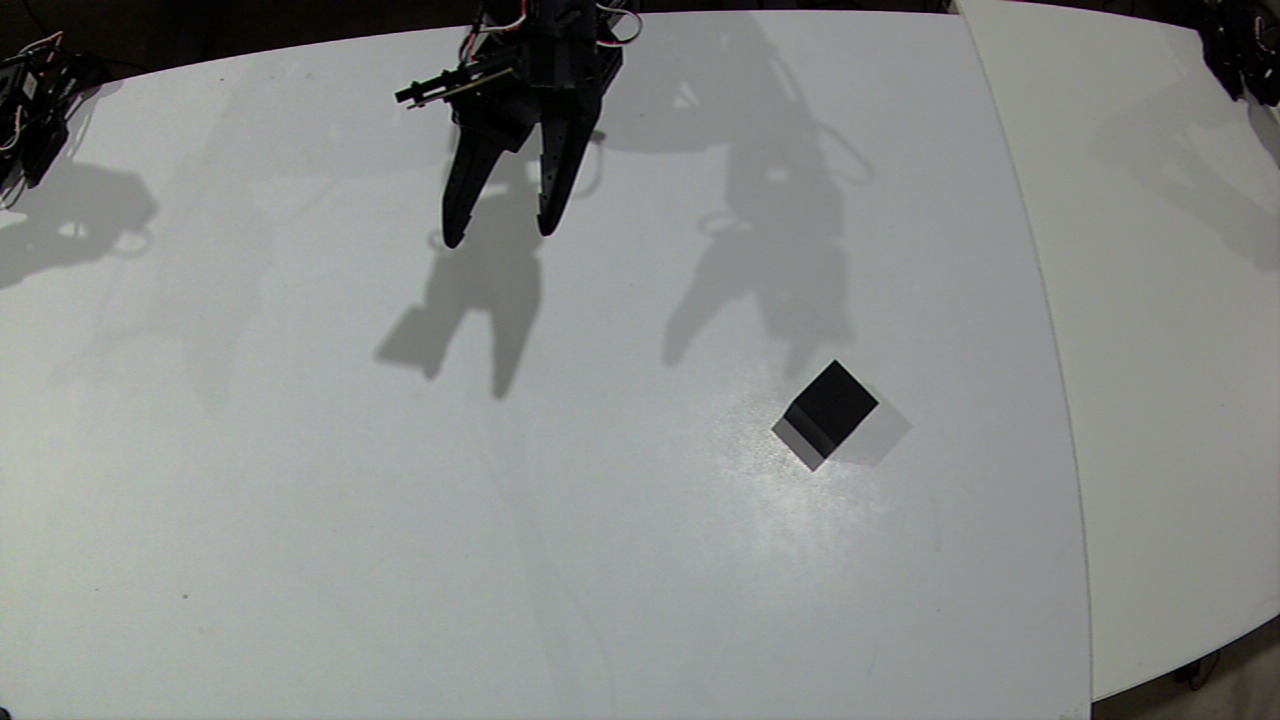
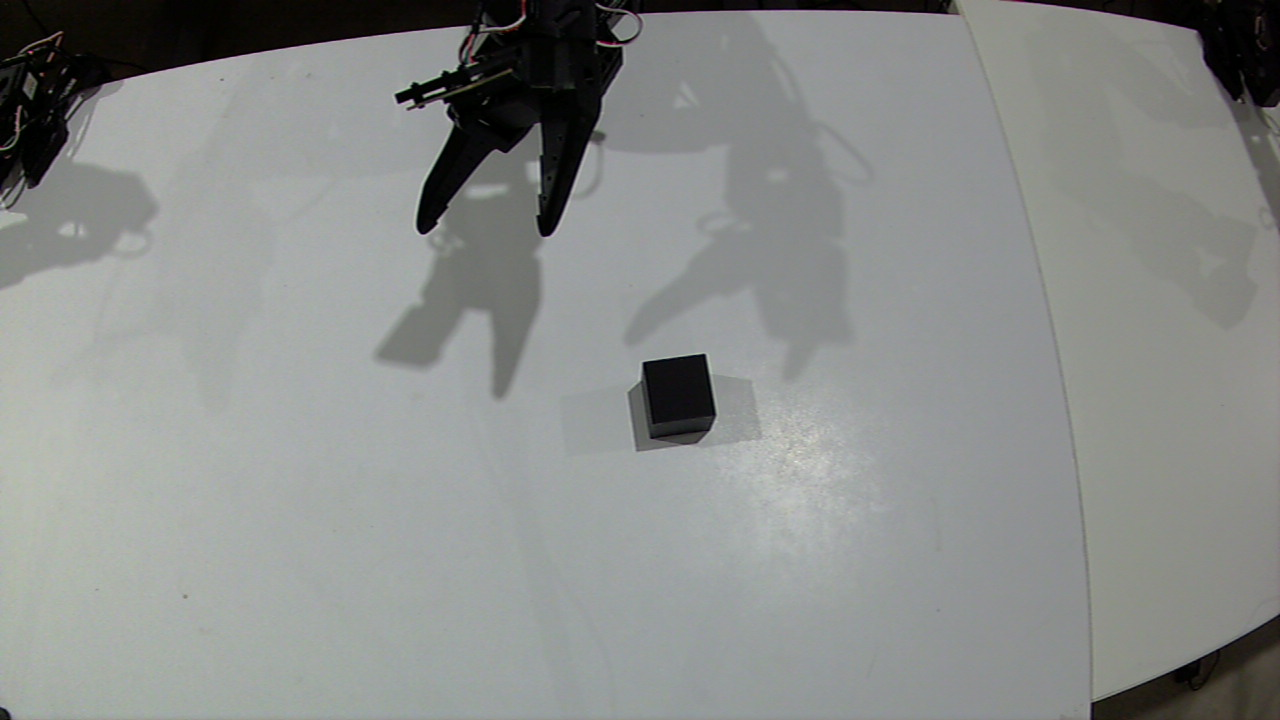
Update tools for arm-007__gpt-6-astra__grasp-cube
{"agent_id": "arm-007__gpt-6-astra__grasp-cube", "designation": "arm-007", "identity_version": 2, "model": "gpt-6-astra", "provider": "codex", "task_definition": {"description": "Start episode, pickup the black cube, bring black cube to home position, confirm successful grasp, stop episode, return object to new position, return home, repeat", "id": "grasp-cube", "success_criteria": ["successful episode coverage across the entire workspace", "achieve at least 50 successful episodes an hour"], "version": 2}, "task_id": "grasp-cube", "task_sha256": "e6c8adbb1562fdc6af3405e2e618046b110e27856c520c9f5cd329c258fb3818", "task_version": 2, "tools_sha256": "1da060dc27f11ef8edb668f75a64a73a7dc7f8165542ab4ee10f4b79d8470163"}

diff --git a/agents/arm-007__gpt-6-astra__grasp-cube/cube_cycles.py b/agents/arm-007__gpt-6-astra__grasp-cube/cube_cycles.py
@@ -1,5 +1,5 @@
 """Recorded cube cycles, with fresh camera and contact checks and bounded placement grid."""
-import json,time,sys,signal
+import json,time,sys,signal,os
 from pathlib import Path
 import cv2,numpy as np
 import calibrate_workspace as c, recording
@@ -48,6 +48,8 @@ def held(b):
 def run(n):
  current=json.loads(STATE.read_text()) if STATE.exists() else pose(17)
  grid=[(pan,e) for e in (20,40,60,80,10) for pan in (-40,-25,-10,5,20,35,40)]
+ offset=int(os.environ.get("CUBE_GRID_OFFSET","0"))
+ grid=grid[offset:]+grid[:offset]
  active=False
  with c.connected_bus(recording.serial_port()) as b:
   try:
